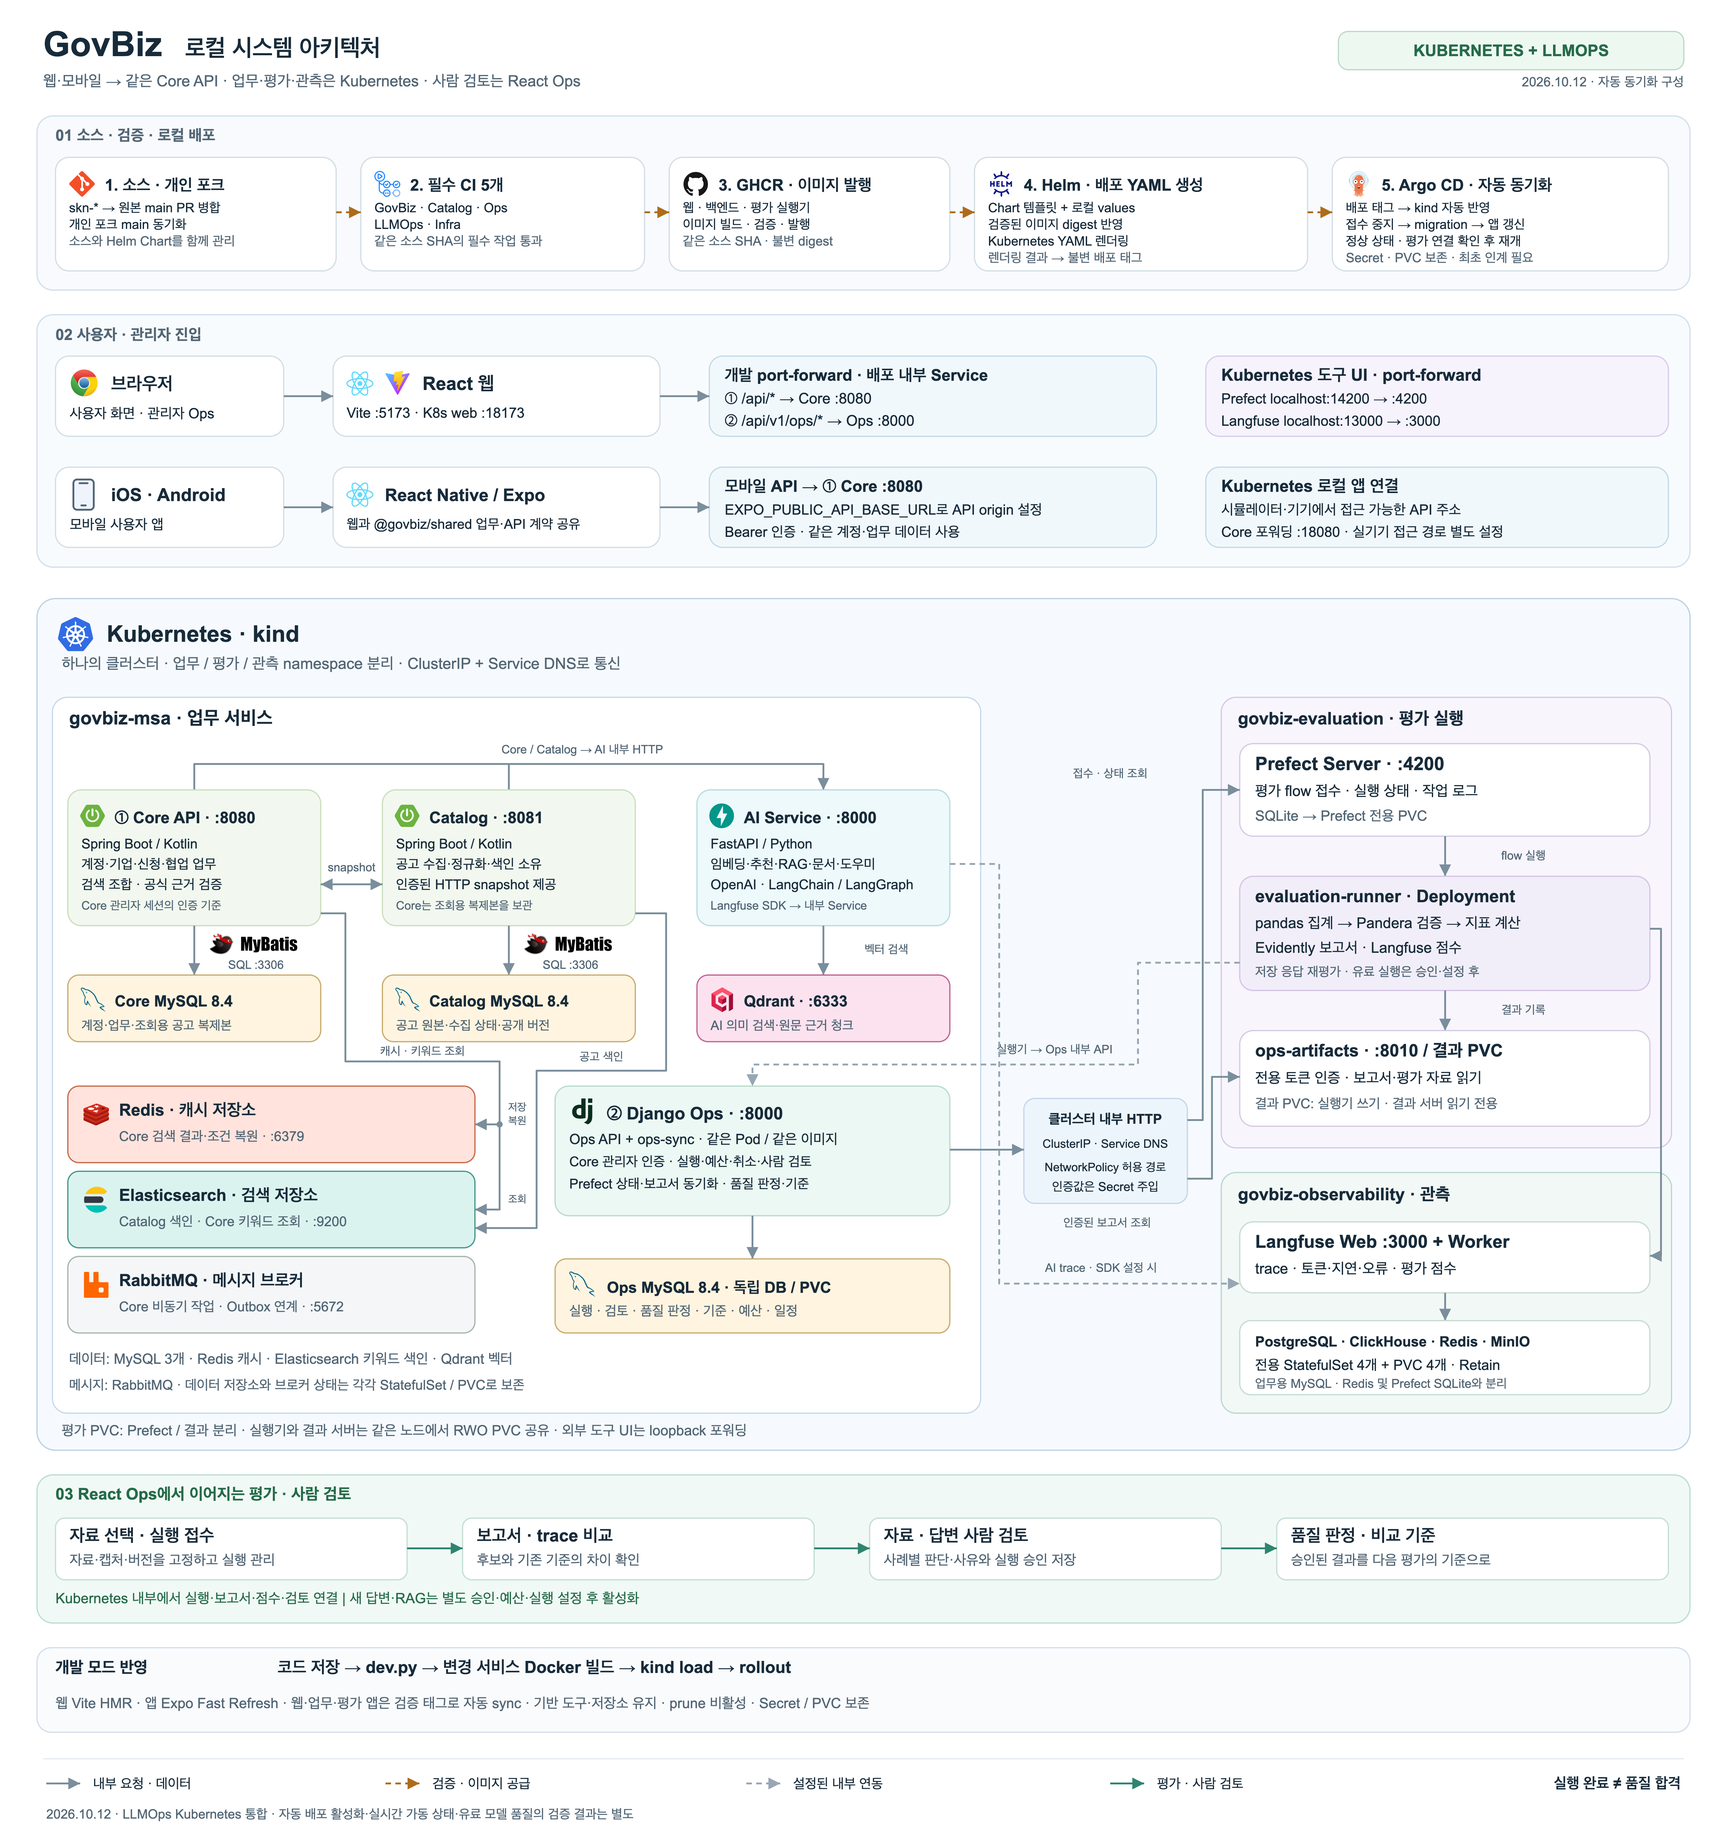
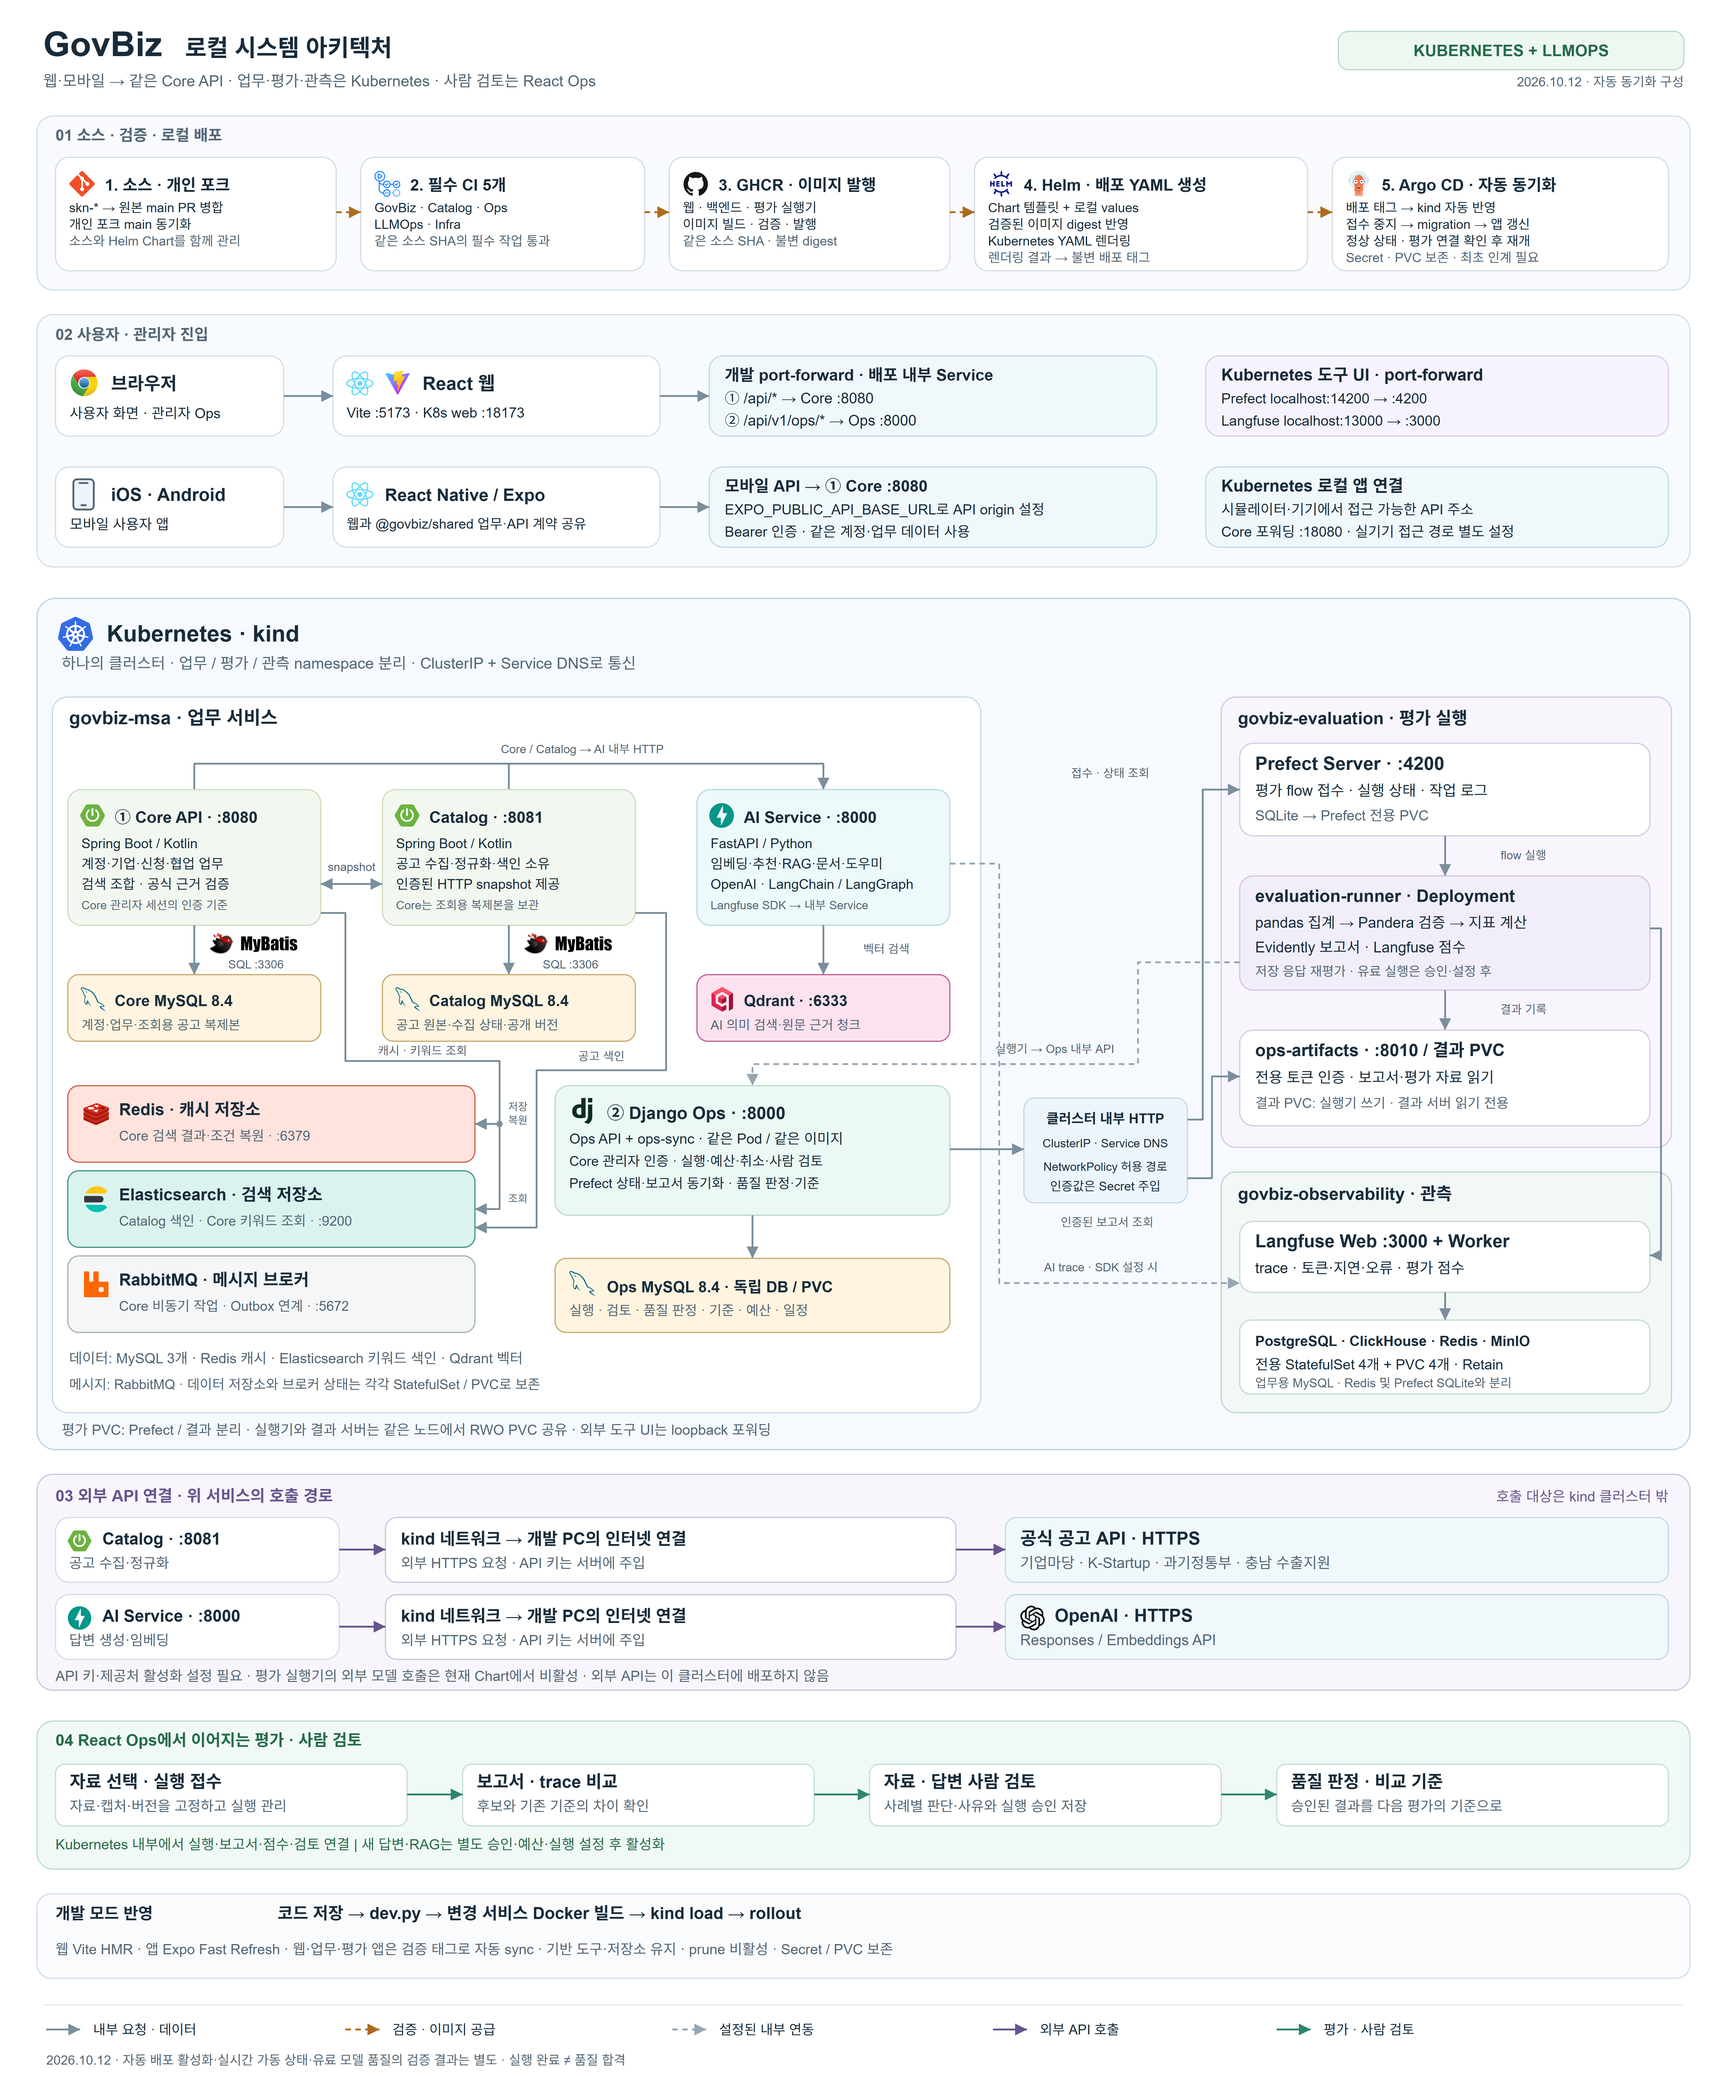
문서: 로컬 Kubernetes와 EKS 구성도에 외부 API 연결 추가

diff --git a/docs/assets/architecture/README-aws-eks.md b/docs/assets/architecture/README-aws-eks.md
@@ -6,9 +6,9 @@
 **자동 배포가 활성화된 목표 구조**를 표현하며, 개인 main의 필수 CI 통과부터 EKS·Vercel 갱신까지 연결합니다.
 로컬 그림과 과거 EC2·RDS 배포 그림은 그대로 보존합니다.
 
-![GovBiz Vercel·AWS EKS 전체 구성도](govbiz-aws-eks-architecture.png?v=be244c2d5ed5)
+![GovBiz Vercel·AWS EKS 전체 구성도](govbiz-aws-eks-architecture.png?v=bf884c9298c5)
 
-[PNG 크게 보기](govbiz-aws-eks-architecture.png?v=be244c2d5ed5) · [SVG 원본](govbiz-aws-eks-architecture.svg?v=1ffd1dac1d04) · [생성 스크립트](build-aws-eks.mjs)
+[PNG 크게 보기](govbiz-aws-eks-architecture.png?v=bf884c9298c5) · [SVG 원본](govbiz-aws-eks-architecture.svg?v=a6dbc0d6fcab) · [생성 스크립트](build-aws-eks.mjs)
 
 ## 그림의 기준
 
@@ -41,6 +41,36 @@
 | 결과 → 관리자 | `ops-artifacts`는 결과 PVC를 읽기 전용으로 제공하고, `ops-sync`가 상태·결과를 반영합니다. 관리자는 같은 React 웹에서 검토·판정·비교 기준을 관리합니다. |
 | 도구 UI | Prefect·Langfuse는 공개하지 않습니다. EKS 권한을 가진 사용자가 각 PC에서 loopback port-forward를 연결합니다. |
 
+### 외부 API 연결
+
+외부 API 제공자는 AWS·VPC·EKS 경계 밖에 표시합니다. 요청은 아래와 같이 Pod에서 시작합니다.
+이 경로는 사용자가 웹·모바일에서 들어오는 Vercel·CloudFront·ALB 경로와 별개입니다.
+
+보라색 화살표는 외부 API 요청입니다. 영역 왼쪽의 Catalog·AI와 가운데의 NAT·Internet Gateway는
+위 VPC에 있는 구성의 요청 경로를 다시 표시한 것입니다. 두 호출은 같은 NAT Gateway를 사용합니다.
+
+| 호출 주체 → 외부 대상 | 하는 일과 실행 조건 |
+|---|---|
+| **Catalog → 공고 제공처 API** | 기업마당·K-Startup·과학기술정보통신부(MSIT)·충남 수출지원(CNTRADE_NOTICE)의 공고를 수집합니다. 기본 주소는 `https://apis.data.go.kr`입니다. 제공처별 키와 수집 실행 설정이 필요하며, 그림의 선이 정기 수집 활성화를 뜻하지는 않습니다. |
+| **AI Service → OpenAI** | 답변 생성·추천·RAG·임베딩을 요청합니다. `OPENAI_API_KEY`와 모델 설정이 필요합니다. Catalog는 AI 내부 API로 색인을 요청하고, 실제 OpenAI 임베딩 호출은 AI Service가 담당합니다. |
+
+NAT Gateway는 public subnet에 있고, private 노드의 외부 요청을 Internet Gateway로 내보냅니다.
+현재 클러스터 설정은 NAT Gateway 1개를 사용합니다. 외부 호출 대상과 키·정기 수집 활성화 상태는 배포 환경의 설정으로 정해집니다.
+
+평가 코드에는 live OpenAI 호출도 있지만 **현재 평가 Chart는 이를 비활성화**합니다.
+실행기의 live·RAG live는 `false`, OpenAI 키는 빈 값이며, NetworkPolicy에는 외부 HTTPS 송신 허용이 없습니다.
+따라서 실행기를 OpenAI 호출 주체로 연결하지 않았습니다. 향후 유료 평가에는 승인·예산·키와 외부 통신 정책 준비가 필요합니다.
+
+Core의 Google·Kakao OAuth, Bizno 사업자 조회, SMTP 메일, 기업마당 원문·첨부 조회 등 보조 연동은 개별 선을 생략했습니다.
+이번 보완은 연결 관계를 설명하는 문서 변경이며 외부 API 실호출이나 새 배포·운영 검증을 수행했다는 뜻은 아닙니다.
+
+근거: [Catalog 제공처·수집 설정](../../../backend/catalog-service/src/main/resources/application.properties) ·
+[AI OpenAI 클라이언트](../../../backend/ai-service/app/bootstrap.py) ·
+[EKS private 노드·NAT 설정](../../../infrastructure/eks/cluster.sydney-demo.yaml) ·
+[평가 실행기 설정](../../../infrastructure/gitops/charts/govbiz-evaluation/templates/workload.yaml) ·
+[평가 통신 정책](../../../infrastructure/gitops/charts/govbiz-evaluation/templates/network-policy.yaml) ·
+[Core 보조 연동 설정](../../../backend/core-service/src/main/resources/application.properties).
+
 ## AWS 저장·실행 경계
 
 | 구성 | 범위 |
@@ -54,8 +84,8 @@
 
 ## 자동 배포 흐름
 
-실선은 서비스 요청·데이터 관계, 회색 점선은 설정에 따른 연결·추가 검증 경로,
-주황색 실선은 **CI 통과 후 자동 배포 경로**입니다.
+회색 실선은 내부 요청·데이터 관계, 회색 점선은 설정에 따른 연결·추가 검증 경로,
+보라색 실선은 **외부 API 요청**, 주황색 실선은 **CI 통과 후 자동 배포 경로**입니다.
 
 개인 저장소 main의 **같은 최신 SHA**에 대한 필수 CI가 모두 통과하면 GitHub Actions가
 CodeConnections로 연결한 CodeBuild 임시 실행기에 빌드·ECR 발행을 맡깁니다.
@@ -109,7 +139,7 @@ node docs/assets/architecture/build-aws-eks.mjs --render
 Playwright 설치 디렉터리를 별도로 지정할 때는 `GOVBIZ_DIAGRAM_NODE_MODULES`,
 Chrome 실행 파일을 지정할 때는 `GOVBIZ_DIAGRAM_CHROME`을 사용합니다.
 렌더링은 외부 네트워크 요청을 차단하고 로고 로드·텍스트 폭·이미지 경계를 확인합니다.
-SVG는 3,000 × 3,670, PNG는 6,000 × 7,340입니다.
+SVG는 3,000 × 4,070, PNG는 6,000 × 8,140입니다.
 
 로고는 [AWS·공통 로고 출처](aws-logo-sources.json)와
 [Kubernetes·서비스 로고 출처](kubernetes-logo-sources.json)의 로컬 파일을 SHA-256으로 확인해 사용합니다.
